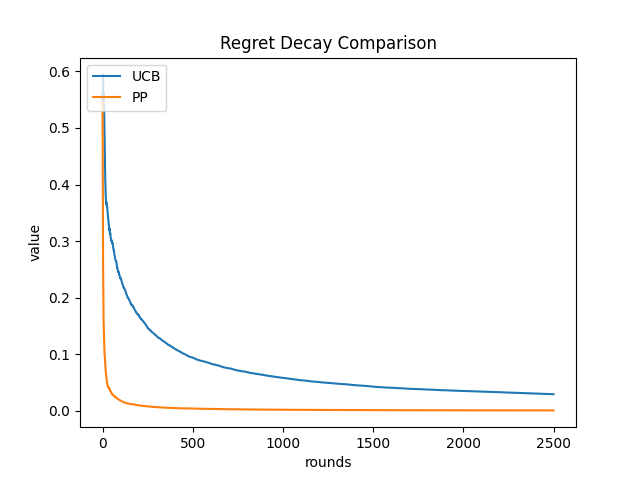
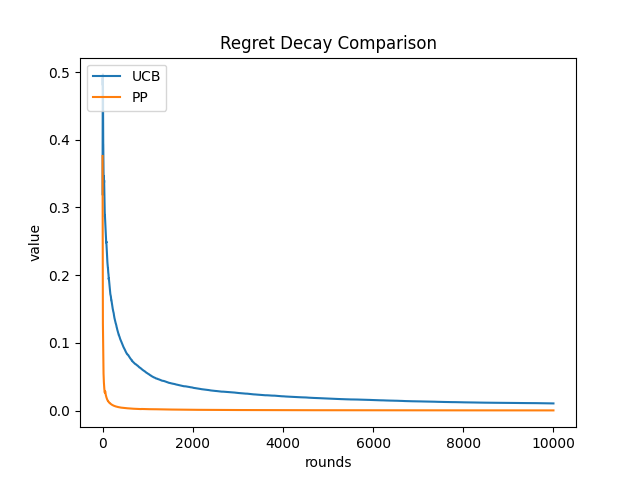
add plots for 10000 round 10 times

diff --git a/simulator.py b/simulator.py
@@ -193,7 +193,7 @@ def plot_2_data_sets_with_error_bar(rounds, algo_1_name, dataset_1, std_err_data
     plt.savefig(plot_filename)
     plt.close()
 
-def simulation(rounds=int(2500)):
+def simulation(rounds=int(10000)):
     ucb_reward_dataset = []
     ucb_regret_dataset = []
     ucb_reward_over_t = []
